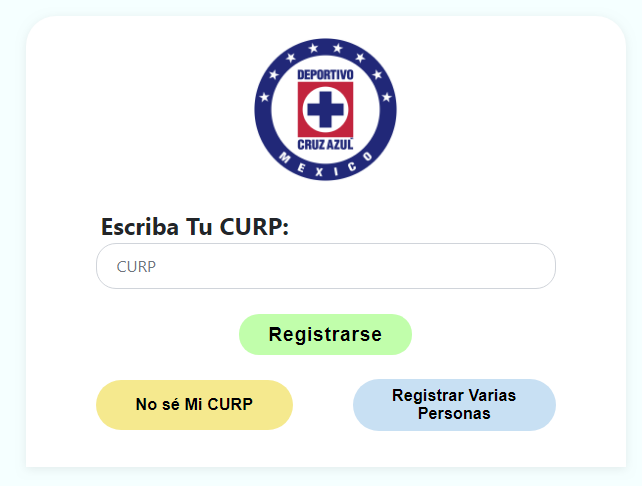
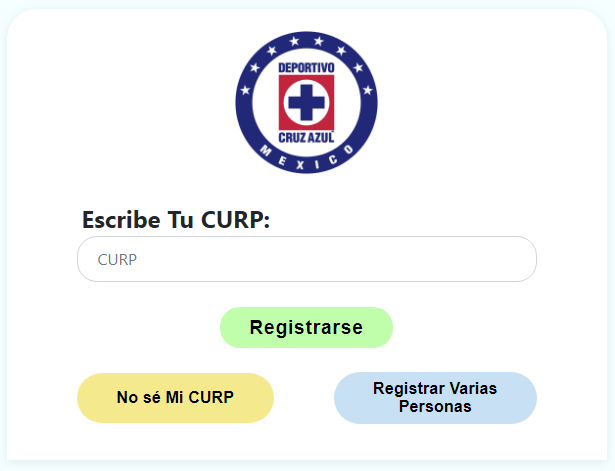
Fix texto pagina principal

diff --git a/pagina-web/templates/index.html b/pagina-web/templates/index.html
@@ -32,7 +32,7 @@
         </div>
         <br />
         <div class="row align-items-center">
-          <span style="font-size: x-large; font-weight: bold;">&nbsp;&nbsp;&nbsp;Escriba Tu CURP:</span>
+          <span style="font-size: x-large; font-weight: bold;">&nbsp;&nbsp;&nbsp;Escribe Tu CURP:</span>
         </div>
         <div class="form-group">
           <input
